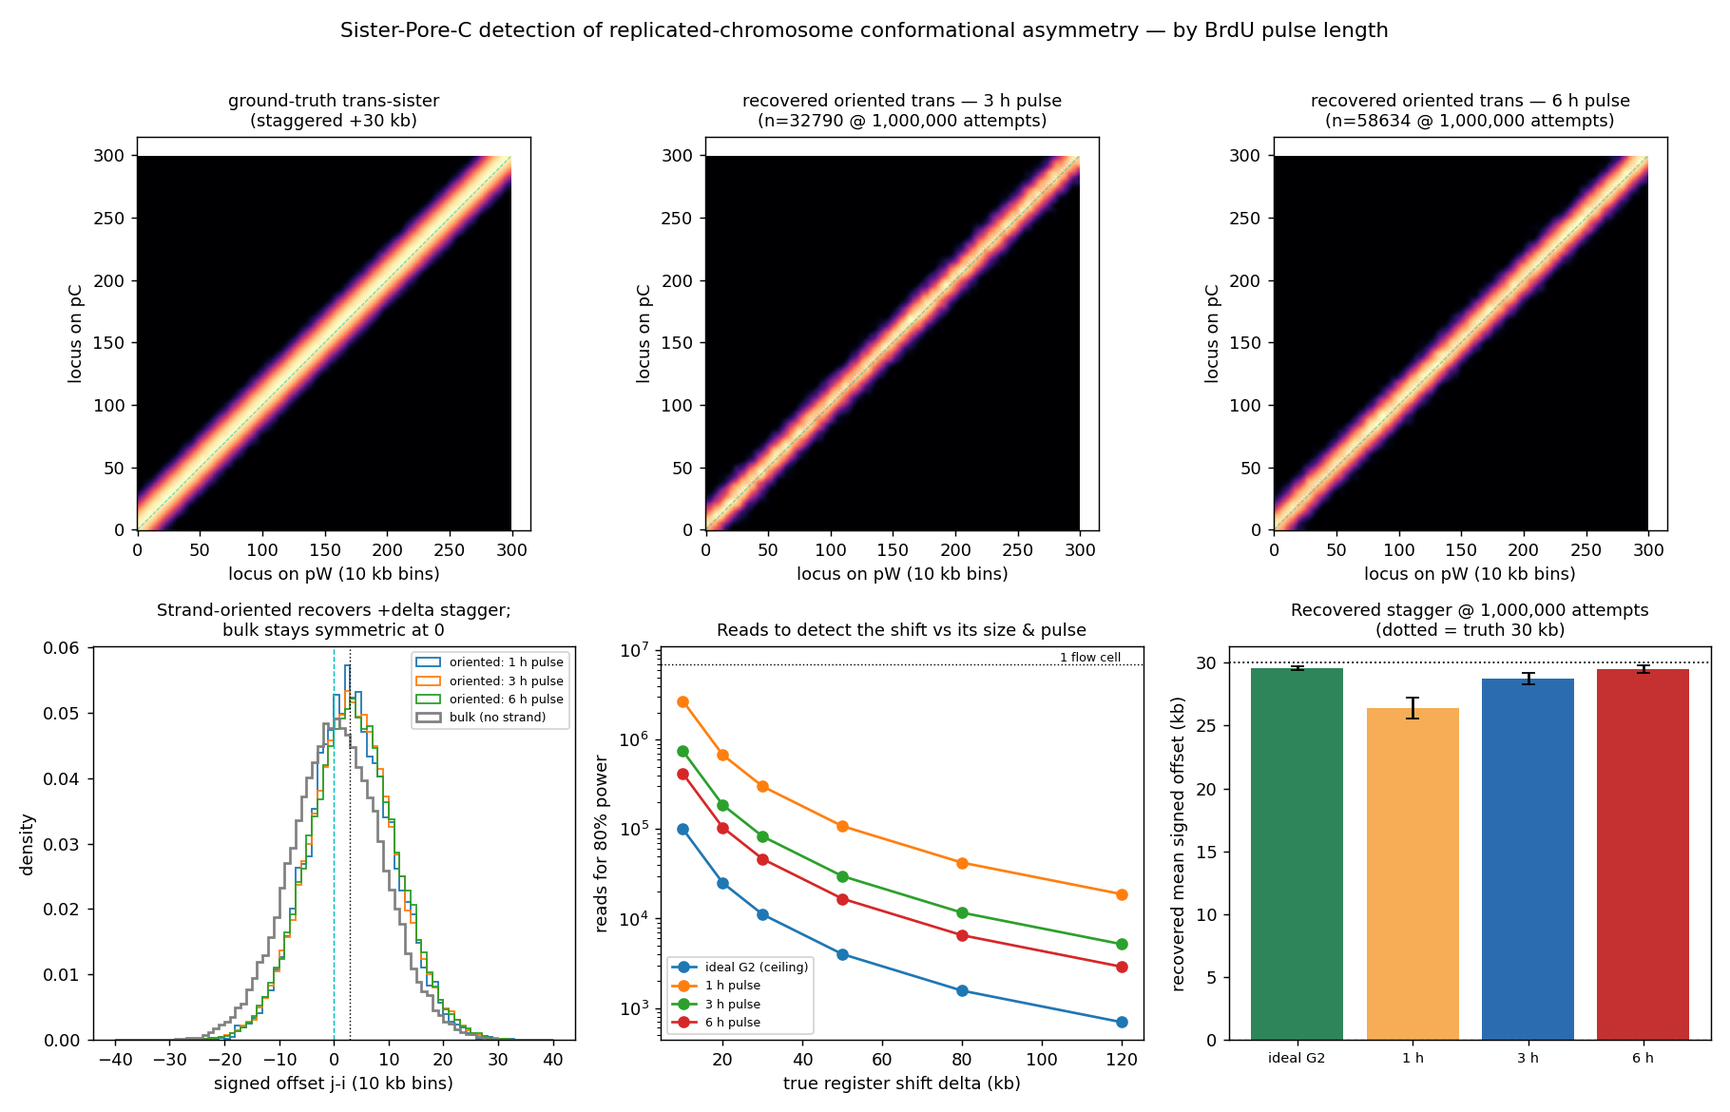
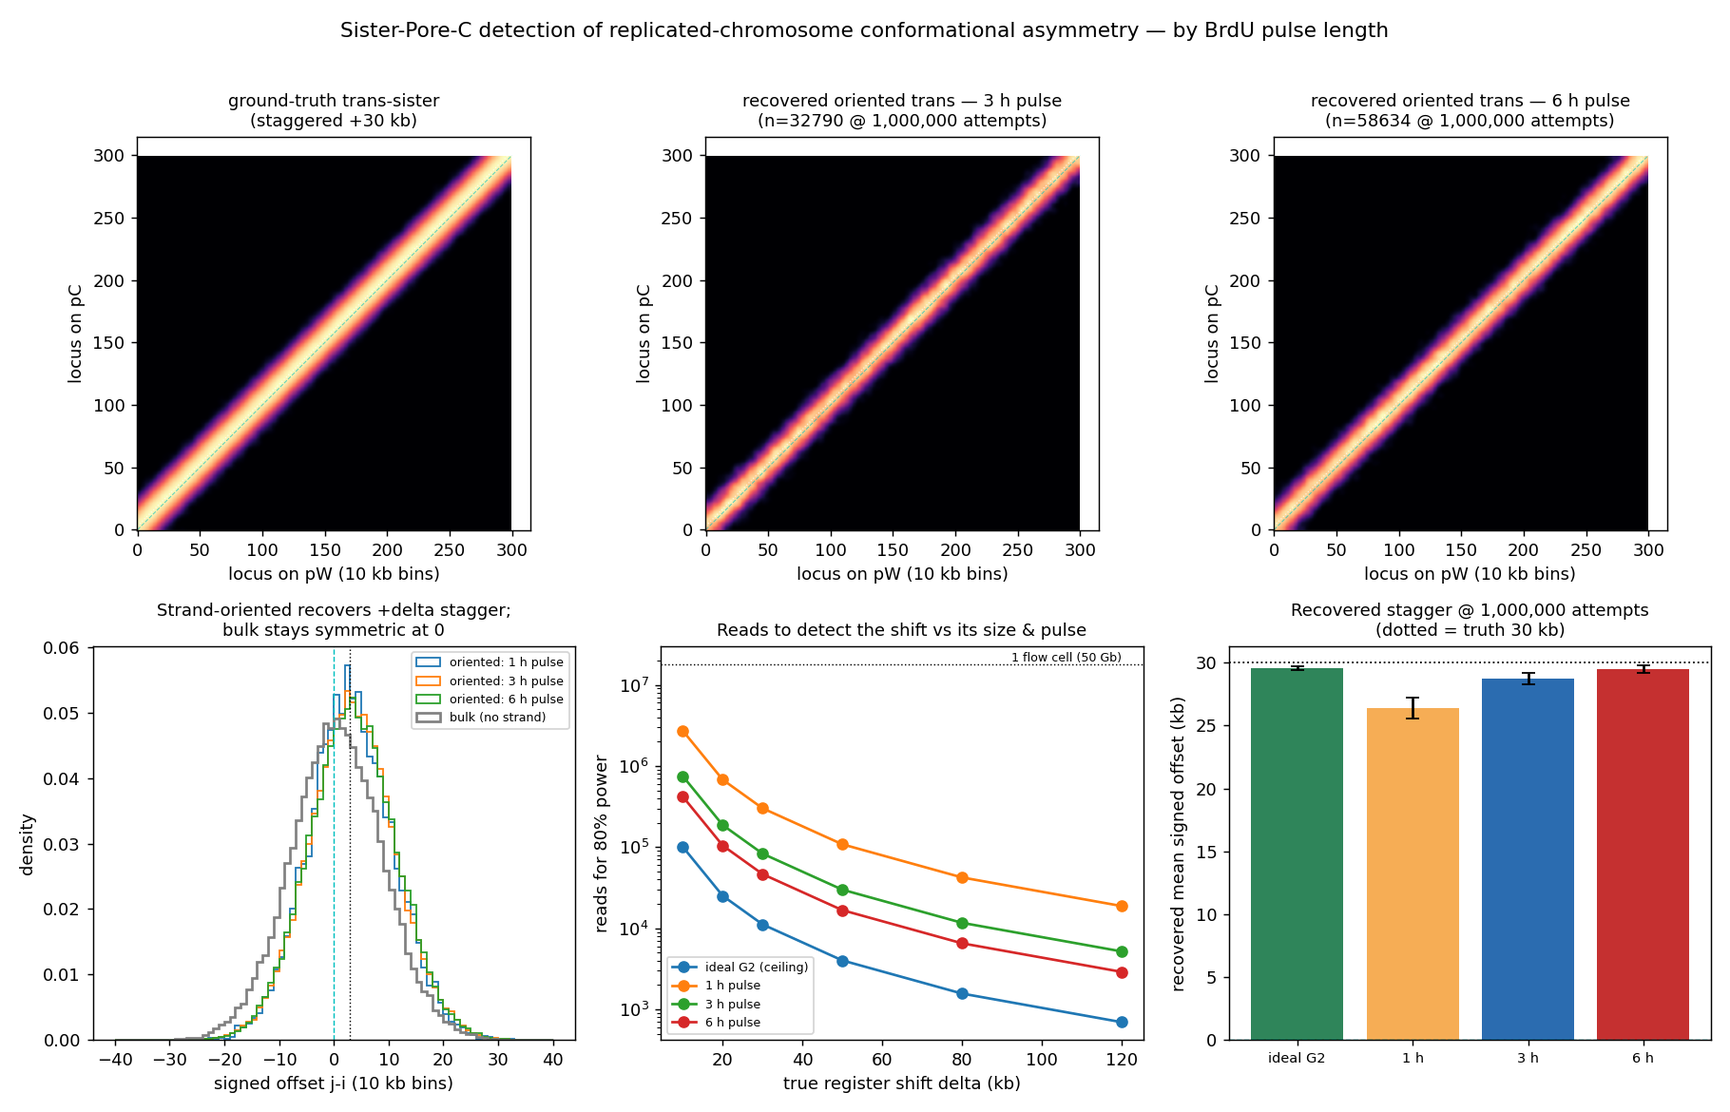
Report: add KEE/chromocenter sister-decomposition section; fix flow-cell scale to 50 Gb
- New pilot_kee_chromocenter.py: decomposes an enriched hub (KEE / chromocenter)
  into cis-sister / trans-sister / inter-homolog; shows inter-homolog fakes sister
  cohesion at the pericentromere and that F1 haplotagging fails there (repeats);
  KEEs are clean in inbred Col-0. Reads = contacts/(p_hub*eps); multi-way ~3.6x.
- Report: add Section 6 (KEE/chromocenter) + Fig 6; correct flow-cell conversion
  to ~50 Gb (~18M reads, ~370x depth on the 135 Mb genome) throughout.

Changed region(s): [[0.3385, 0.6154, 0.6769, 0.8923], [0.5846, 0.5846, 0.6462, 0.6154], [0.5538, 0.8923, 0.6154, 0.9231]]

diff --git a/spcsim/report/index.html b/spcsim/report/index.html
@@ -100,26 +100,56 @@
 <h2>5 · Detection by BrdU pulse length</h2>
 <p>The register shift is a <b>1-D statistic</b> (mean signed offset), not a 2-D map — so it needs only <b>~56 oriented trans-sister contacts</b> for 80% power (assuming δ = 30 kb, spread σ = 80 kb). Longer BrdU pulses label more cells and cut the read requirement:</p>
 <table>
-  <thead><tr><th>BrdU pulse</th><th>oriented trans / read</th><th>reads for 80% power</th><th>flow cells (7 M)</th></tr></thead>
+  <thead><tr><th>BrdU pulse</th><th>oriented trans / read</th><th>reads for 80% power</th><th>flow cells (50 Gb)</th></tr></thead>
   <tbody>
-  <tr><td>ideal G2 (ceiling)</td><td>5.0e-3</td><td>11,000</td><td>0.002</td></tr>
-  <tr><td>1 h pulse</td><td>1.9e-4</td><td>301,000</td><td>0.043</td></tr>
-  <tr><td>3 h pulse</td><td>6.7e-4</td><td class="best">83,000</td><td class="best">0.012</td></tr>
-  <tr><td>6 h pulse</td><td>1.2e-3</td><td>46,000</td><td>0.007</td></tr>
+  <tr><td>ideal G2 (ceiling)</td><td>5.0e-3</td><td>11,000</td><td>0.001</td></tr>
+  <tr><td>1 h pulse</td><td>1.9e-4</td><td>301,000</td><td>0.017</td></tr>
+  <tr><td>3 h pulse</td><td>6.7e-4</td><td class="best">83,000</td><td class="best">0.005</td></tr>
+  <tr><td>6 h pulse</td><td>1.2e-3</td><td>46,000</td><td>0.003</td></tr>
   </tbody>
 </table>
+<div class="callout key"><b>Depth is not the bottleneck in Arabidopsis.</b> A flow cell yields ~50 Gb; the genome is only 135 Mb → <b>~370× coverage per flow cell</b> (~18 M Pore-C reads at ~2.7 kb/read). So detecting the register shift at a 3 h pulse costs ≈0.005 of a flow cell — you are limited by biology and confounds, not sequencing.</div>
 <figure>
   <img src="contactmap_sister.png" alt="sister-resolved contact maps and reads-to-detect by pulse length">
   <figcaption><b>Fig 5.</b> Top: ground-truth vs strand-oriented recovered trans-sister maps (3 h, 6 h pulse). Bottom-left: strand-oriented offset recovers +δ; bulk is symmetric. Bottom-middle: reads-to-detect vs shift size and pulse. Bottom-right: recovered stagger matches truth at every pulse.</figcaption>
 </figure>
-<div class="callout"><b>Pulse recommendation.</b> 1 h → 3 h is the big win (~6× fewer reads, because a 1 h pulse is shorter than S so co-labelling of both loci is rare). 3 h → 6 h is only ~1.8× more and 6 h starts accruing post-mitotic G1-daughter contamination. <b>3 h is the sweet spot</b> — the whole asymmetry measurement costs ≈0.01 of a PromethION flow cell.</div>
+<div class="callout"><b>Pulse recommendation.</b> 1 h → 3 h is the big win (~6× fewer reads, because a 1 h pulse is shorter than S so co-labelling of both loci is rare). 3 h → 6 h is only ~1.8× more and 6 h starts accruing post-mitotic G1-daughter contamination. <b>3 h is the sweet spot</b> — the whole asymmetry measurement costs ≈0.005 of a flow cell.</div>
 
-<h2>6 · Conclusions</h2>
+<h2>6 · KEE / chromocenter interactions: intra- vs inter-sister</h2>
+<p>Beyond the asymmetry, the more Arabidopsis-native use is to decompose your prominent hubs — the <b>KNOT / KEEs</b> and the <b>pericentromere chromocenter</b> — into cis-sister (within one chromatid), trans-sister (between sisters), and inter-homolog contacts. Is a KEE–KEE (or chromocenter) interaction intra-sister, inter-sister, or both? And is pericentromere clustering driven by <b>sister cohesion</b> or by <b>sister-agnostic bulk aggregation</b>?</p>
+<figure>
+  <img src="pilot_kee_chromocenter.png" alt="KEE/chromocenter sister decomposition, inter-homolog bias, F1 rescue, multi-way cost">
+  <figcaption><b>Fig 6.</b> Left: recovered trans-sister fraction vs truth — KEEs are unbiased in inbred Col-0, but at the pericentromere inter-homolog contacts inflate "bulk" (true 0.15) to ~0.30. Middle: reads to distinguish sister-cohesion from bulk vs how enriched your hub is (p_hub). Right: a 3-way sister-spanning hub costs one extra BrdU coin-flip (~3.6×).</figcaption>
+</figure>
+<table>
+  <thead><tr><th>region</th><th>scenario (true)</th><th>inbred Col-0</th><th>Col×Ler F1</th></tr></thead>
+  <tbody>
+  <tr><td>KEE (arm)</td><td>cohesion (0.50)</td><td>0.50</td><td>0.50</td></tr>
+  <tr><td>KEE (arm)</td><td>bulk (0.15)</td><td class="best">0.17</td><td>0.16</td></tr>
+  <tr><td>pericentromere</td><td>cohesion (0.50)</td><td>0.51</td><td>0.51</td></tr>
+  <tr><td>pericentromere</td><td>bulk (0.15)</td><td>0.30 ⚠</td><td>0.29 ⚠</td></tr>
+  </tbody>
+</table>
+<div class="callout warn"><b>The chromocenter trap.</b> At the pericentromere, inter-homolog contacts (~40%) inflate the inbred trans-sister estimate — <b>bulk clustering (true 0.15) reads as 0.30</b>, which can be mistaken for partial sister cohesion. And <b>F1 barely rescues it</b>: pericentromeric reads can't be haplotagged (low SNP density / repeats → only ~6% of inter-homolog pairs identified). So treat the raw inbred pericentromere trans-fraction with suspicion and subtract an inter-homolog model. <b>KEEs (euchromatic, low inter-homolog) are the clean first target</b> — answerable in inbred Col-0 today.</div>
+<p><b>Reads.</b> Only <b>~30 (KEE) to ~80 (pericentromere)</b> sister-resolved contacts are needed to distinguish cohesion from bulk (≈384 to pin the fraction to ±0.05). Total reads = contacts / (p_hub × ε), with ε ≈ 0.03; plug in your measured hub contact fraction p_hub:</p>
+<table>
+  <thead><tr><th>p_hub (your maps)</th><th>KEE reads</th><th>KEE flow cells</th><th>pericentromere reads</th><th>peri flow cells</th></tr></thead>
+  <tbody>
+  <tr><td>1e-3 (strong hub)</td><td>1.1e6</td><td class="best">0.06</td><td>2.4e6</td><td>0.13</td></tr>
+  <tr><td>1e-4</td><td>1.1e7</td><td>0.6</td><td>2.4e7</td><td>1.3</td></tr>
+  <tr><td>1e-5 (weak)</td><td>1.1e8</td><td>6</td><td>2.4e8</td><td>13</td></tr>
+  </tbody>
+</table>
+<p>So for a strong KEE/chromocenter interaction it's a fraction of a flow cell; read your real <code>p_hub</code> off the existing AlwI/BfaI maps to fix the number. <b>Multi-way</b> (a single molecule touching a hub across both sisters — impossible for Hi-C) costs ~3.6× more.</p>
+
+<h2>7 · Conclusions</h2>
 <ul>
   <li><b>Feasible.</b> Detecting the replicated-chromosome register shift needs tens of thousands of reads even asynchronous — a fraction of one flow cell.</li>
   <li><b>Strand resolution is essential and sufficient.</b> The asymmetry is registered to parental strand, so it survives population averaging once you orient by strand; bulk methods cannot recover it.</li>
   <li><b>Read the signed offset, not a full map.</b> The 1-D collapse is ~10³–10⁴× cheaper than a sister-resolved 2-D contact map.</li>
   <li><b>3 h BrdU pulse, no chase.</b> Best trade of yield vs. G1-daughter / double-labelling confounds.</li>
+  <li><b>KEEs first, chromocenter with care.</b> KEE intra- vs inter-sister engagement is answerable in inbred Col-0 now; the pericentromere sister question needs an inter-homolog correction (F1 alone fails in the repeats).</li>
+  <li><b>Sequencing is not the limit.</b> ~370× depth per flow cell on this 135 Mb genome — the constraints are labelling efficiency, inter-homolog contamination, and repeat mappability.</li>
 </ul>
 
 <div class="callout warn">
@@ -134,7 +164,7 @@
 <footer>
   Generated by the <code>spcsim</code> prototype: <code>quick_mc.py</code> (cell/strand/label engine),
   <code>pilot_chr1_sister.py</code> (Fig 3), <code>contactmap_sister.py</code> (Fig 5),
-  <code>animate_schematics.py</code> (Figs 1,2,4). Reference:
+  <code>pilot_kee_chromocenter.py</code> (Fig 6), <code>animate_schematics.py</code> (Figs 1,2,4). Reference:
   <a href="https://www.biorxiv.org/content/10.1101/2025.07.09.663929v1" target="_blank" rel="noopener">Conformational asymmetry of replicated human chromosomes</a>, Science 2025.
 </footer>
 </div>

diff --git a/spcsim/prototype/pilot_kee_chromocenter.py b/spcsim/prototype/pilot_kee_chromocenter.py
@@ -1,0 +1,195 @@
+"""
+Pilot 3: are KEE / chromocenter interactions intra-sister, inter-sister, or both?
+And can we tell "sister-cohesion-driven" from "homolog/bulk-driven" clustering?
+
+For an enriched hub interaction between two loci A,B we plant a TRUE mixture of contact types:
+  - same-homolog sister contacts, split by 'sister_trans_frac' (trans vs cis-sister)
+  - inter-homolog contacts (the confound: in inbred Col-0 they masquerade 50:50 as cis/trans)
+We then read strand + BrdU (via quick_mc), classify cis/trans, and in F1 mode try to HAPLOTAG each
+monomer (region-dependent success) to identify & remove inter-homolog pairs.
+
+Readouts:
+  1. recovered trans-sister fraction vs truth, inbred vs F1  -> the inter-homolog bias & F1 rescue
+  2. sister-resolution efficiency eps at the hub (async 3 h pulse)
+  3. contacts needed for +/-0.05 CI, and to distinguish cohesion(0.5) vs bulk(0.15) at 80% power
+  4. reads = contacts / (p_hub * eps)   -> plug your MEASURED hub contact fraction p_hub
+  5. multi-way (3-locus) sister-spanning hub: extra label cost
+
+Regions: KEE (arm, low inter-homolog, good haplotag) vs pericentromere/chromocenter
+(high inter-homolog, poor haplotag). Run: python pilot_kee_chromocenter.py [n]
+"""
+import math, random, sys
+import numpy as np
+import quick_mc as q
+
+CHR = 0
+OPP = {'W': 'C', 'C': 'W'}
+REGIONS = {
+    # A,B,C bins on Chr1; inter_homolog_frac; F1 haplotag success (SNP density/mappability)
+    'KEE (arm)':            dict(A=520, B=1040, C=1560, p_hom=0.05, hsucc=0.70),
+    'pericentromere':       dict(A=1450, B=1560, C=1505, p_hom=0.40, hsucc=0.25),
+}
+SCEN = {'sister-cohesion': 0.50, 'bulk/independent': 0.15}   # true trans-sister fraction (same-homolog)
+POP = dict(q.BASE)                                            # async 3 h pulse (HU dropped)
+
+
+def detect_probs(p, n=1_000_000, seed=0):
+    rng = np.random.default_rng(seed)
+    nT = rng.binomial(rng.lognormal(math.log(750), 0.45, n).astype(int) + 50, 0.32)
+    lab = (rng.binomial(rng.binomial(nT, p['s']), p['sens']) + rng.binomial(nT, p['fp'])) >= p['thr']
+    unlab = rng.binomial(nT, p['fp']) >= p['thr']
+    return lab.mean(), unlab.mean()
+
+
+def call_from_lab(lab, p_lab, p_unlab):
+    """strand read + BrdU call given a chromatid's labelled-strand set. returns (ident, called)."""
+    rs = random.choice('WC')
+    called = random.random() < (p_lab if rs in lab else p_unlab)
+    return (rs if called else OPP[rs]), called
+
+
+def simulate(region, genotype, stf, n_reads, p_lab, p_unlab, seed=1):
+    random.seed(seed)
+    A, B, C = region['A'], region['B'], region['C']
+    p_hom, hsucc = region['p_hom'], (region['hsucc'] if genotype == 'F1' else 0.0)
+    kept = trans_calls = 0
+    n3_resolved = 0                                   # fully-labelled 3-way (sister-spanning)
+    for _ in range(n_reads):
+        cell = q.sample_cell(POP)
+        # choose homologs + true type FIRST, then read each locus' state exactly once (state() is stochastic)
+        if random.random() < p_hom:                   # inter-homolog contact (the confound)
+            hA, hB, interhom = 0, 1, True
+        else:                                         # same-homolog sister contact
+            hA = hB = random.randint(0, 1); interhom = False
+            is_trans = random.random() < stf
+        sA = cell.state(CHR, hA, A); sB = cell.state(CHR, hB, B)
+        if not (sA[0] and sB[0]):                     # need two sisters present at both loci
+            continue
+        if interhom:
+            cidA = random.choice(list(sA[1])); cidB = random.choice(list(sB[1]))
+        elif is_trans:
+            cidA, cidB = 'pW', 'pC'
+        else:
+            cidA = cidB = random.choice(('pW', 'pC'))
+        identA, cA = call_from_lab(sA[1][cidA], p_lab, p_unlab)
+        identB, cB = call_from_lab(sB[1][cidB], p_lab, p_unlab)
+        if not (cA and cB):
+            continue                                  # not both BrdU+ -> uninformative
+        if genotype == 'F1':                          # haplotag: identified inter-homolog is removed
+            if (random.random() < hsucc) and (random.random() < hsucc) and (hA != hB):
+                continue
+        kept += 1
+        trans_calls += (identA != identB)
+        if not interhom:                              # opportunistic sister-spanning 3-way at C
+            sC = cell.state(CHR, hA, C)
+            if sC[0]:
+                cidC = 'pC' if cidA == 'pW' else 'pW'
+                if call_from_lab(sC[1][cidC], p_lab, p_unlab)[1]:
+                    n3_resolved += 1
+    return dict(recovered=trans_calls / kept if kept else float('nan'),
+                eps=kept / n_reads, eps3=n3_resolved / n_reads)
+
+
+def contacts_precision(f, halfwidth=0.05, z=1.96):
+    return (z / halfwidth) ** 2 * f * (1 - f)
+def contacts_discriminate(f1, f2, za=1.96, zb=0.84):
+    return (za + zb) ** 2 * (f1 * (1 - f1) + f2 * (1 - f2)) / (f1 - f2) ** 2
+
+
+def main():
+    n = int(sys.argv[1]) if len(sys.argv) > 1 else 150_000
+    p_lab, p_unlab = detect_probs(POP)
+    print(f"P(call|labelled)={p_lab:.3f}  (async 3 h pulse)\n", file=sys.stderr)
+
+    res = {}   # (region, scen, geno) -> dict
+    for region in REGIONS:
+        for scen, stf in SCEN.items():
+            for geno in ('inbred', 'F1'):
+                res[(region, scen, geno)] = simulate(REGIONS[region], geno, stf, n, p_lab, p_unlab)
+
+    print("=== 1. recovered trans-sister fraction vs TRUTH ===")
+    print(f"{'region':16s} {'scenario':18s} {'true':>5s} {'inbred':>8s} {'F1':>7s}")
+    for region in REGIONS:
+        for scen, stf in SCEN.items():
+            ib = res[(region, scen, 'inbred')]['recovered']; f1 = res[(region, scen, 'F1')]['recovered']
+            print(f"{region:16s} {scen:18s} {stf:>5.2f} {ib:>8.2f} {f1:>7.2f}")
+    print("\n  -> inter-homolog inflates the inbred estimate toward 0.5; worst at the pericentromere,")
+    print("     where 'bulk' clustering can FAKE sister cohesion. F1 haplotagging recovers the truth.\n")
+
+    print("=== 2. sister-resolution efficiency eps (informative hub contacts per hub contact) ===")
+    for region in REGIONS:
+        e_ib = res[(region, 'sister-cohesion', 'inbred')]['eps']
+        e_f1 = res[(region, 'sister-cohesion', 'F1')]['eps']
+        print(f"  {region:16s} inbred eps={e_ib:.3f}   F1 eps={e_f1:.3f} (haplotag drops some pairs)")
+
+    print("\n=== 3. contacts needed (robust; independent of contact frequency) ===")
+    for region in REGIONS:
+        for geno in ('inbred', 'F1'):
+            fc = res[(region, 'sister-cohesion', geno)]['recovered']
+            fb = res[(region, 'bulk/independent', geno)]['recovered']
+            n_prec = contacts_precision(fc)
+            n_disc = contacts_discriminate(fc, fb)
+            print(f"  {region:16s} {geno:6s}: +/-0.05 CI -> {n_prec:5.0f} contacts | "
+                  f"cohesion-vs-bulk -> {n_disc:6.0f} contacts")
+
+    print("\n=== 4. reads = contacts / (p_hub * eps).  Plug your MEASURED hub contact fraction p_hub ===")
+    print(f"{'region':16s} {'geno':6s} {'contacts(disc)':>14s} " + " ".join(f"p_hub={p:>7.0e}" for p in (1e-3, 1e-4, 1e-5)))
+    for region in REGIONS:
+        for geno in ('inbred', 'F1'):
+            fc = res[(region, 'sister-cohesion', geno)]['recovered']; fb = res[(region, 'bulk/independent', geno)]['recovered']
+            nd = contacts_discriminate(fc, fb); eps = res[(region, 'sister-cohesion', geno)]['eps']
+            reads = [nd / (ph * eps) for ph in (1e-3, 1e-4, 1e-5)]
+            print(f"  {region:14s} {geno:6s} {nd:>14.0f} " + " ".join(f"{r:>12.1e}" for r in reads))
+
+    print("\n=== 5. multi-way (3-locus sister-spanning) extra cost ===")
+    for region in REGIONS:
+        e2 = res[(region, 'sister-cohesion', 'inbred')]['eps']
+        e3 = res[(region, 'sister-cohesion', 'inbred')]['eps3']
+        print(f"  {region:16s} 2-way eps={e2:.3f}  3-way eps={e3:.4f}  -> {e2/e3 if e3 else float('inf'):.1f}x more reads for a 3-way")
+
+    # ---- figure ----
+    try:
+        import matplotlib; matplotlib.use('Agg'); import matplotlib.pyplot as plt
+        fig, ax = plt.subplots(1, 3, figsize=(15, 4.6))
+        # panel 1: recovered fraction inbred vs F1
+        regs = list(REGIONS); scens = list(SCEN); x = np.arange(len(regs)); w = 0.2
+        colors = {'inbred': '#c53030', 'F1': '#2f855a'}
+        for si, scen in enumerate(scens):
+            for gi, geno in enumerate(('inbred', 'F1')):
+                vals = [res[(r, scen, geno)]['recovered'] for r in regs]
+                ax[0].bar(x + (si*2+gi-1.5)*w, vals, w, color=colors[geno],
+                          alpha=0.6 if scen == 'bulk/independent' else 1.0,
+                          label=f"{geno}, {scen}" )
+        for si, scen in enumerate(scens):
+            ax[0].axhline(SCEN[scen], color='#2b6cb0', ls=':', lw=1)
+            ax[0].text(len(regs)-0.4, SCEN[scen], f'true {SCEN[scen]}', color='#2b6cb0', fontsize=8, va='bottom')
+        ax[0].set_xticks(x); ax[0].set_xticklabels(regs); ax[0].set_ylabel('recovered trans-sister fraction')
+        ax[0].set_title('Inter-homolog bias & F1 rescue'); ax[0].legend(fontsize=7); ax[0].set_ylim(0, 0.6)
+        # panel 2: reads to discriminate vs p_hub
+        ph = np.logspace(-5, -2.5, 30)
+        for region in regs:
+            for geno in ('inbred', 'F1'):
+                fc = res[(region, 'sister-cohesion', geno)]['recovered']; fb = res[(region, 'bulk/independent', geno)]['recovered']
+                nd = contacts_discriminate(fc, fb); eps = res[(region, 'sister-cohesion', geno)]['eps']
+                ax[1].plot(ph, nd / (ph * eps), label=f"{region.split(' ')[0]}, {geno}",
+                           ls='-' if geno == 'F1' else '--')
+        ax[1].set_xscale('log'); ax[1].set_yscale('log'); ax[1].axhline(18e6, color='k', ls=':', lw=0.8)
+        ax[1].text(ph[-1], 18e6, ' 1 flow cell (50 Gb)', fontsize=7, ha='right', va='bottom')
+        ax[1].set_xlabel('measured hub contact fraction p_hub'); ax[1].set_ylabel('reads to distinguish cohesion vs bulk')
+        ax[1].set_title('Reads vs how enriched your hub is'); ax[1].legend(fontsize=7)
+        # panel 3: eps 2-way vs 3-way
+        e2 = [res[(r, 'sister-cohesion', 'inbred')]['eps'] for r in regs]
+        e3 = [res[(r, 'sister-cohesion', 'inbred')]['eps3'] for r in regs]
+        ax[2].bar(x - 0.2, e2, 0.4, color='#2b6cb0', label='2-way (pairwise)')
+        ax[2].bar(x + 0.2, e3, 0.4, color='#bc8cff', label='3-way (sister-spanning)')
+        ax[2].set_xticks(x); ax[2].set_xticklabels(regs); ax[2].set_ylabel('resolution efficiency eps')
+        ax[2].set_title('Multi-way costs one more label'); ax[2].legend(fontsize=8)
+        fig.suptitle('Sister-Pore-C for KEE / chromocenter interactions (Chr1, async 3 h pulse)', fontsize=13)
+        fig.tight_layout(rect=[0, 0, 1, 0.95]); fig.savefig('pilot_kee_chromocenter.png', dpi=130)
+        print('\nwrote pilot_kee_chromocenter.png', file=sys.stderr)
+    except Exception:
+        import traceback; traceback.print_exc()
+
+
+if __name__ == '__main__':
+    main()

diff --git a/spcsim/prototype/contactmap_sister.py b/spcsim/prototype/contactmap_sister.py
@@ -31,6 +31,7 @@ SIGMA = 8                    # trans-contact spread (bins) = 80 kb
 # BrdU pulse sweep (HU dropped). ideal = theoretical ceiling (fully-labelled G2).
 POPS = {'ideal G2 (ceiling)': dict(ideal=True), '1 h pulse': dict(P=1.0),
         '3 h pulse': dict(P=3.0), '6 h pulse': dict(P=6.0)}
+FLOWCELL = 18_000_000     # reads per ~50 Gb flow cell (~2.7 kb/read; Arabidopsis 135 Mb -> ~370x depth)
 MAP_PANELS = ['3 h pulse', '6 h pulse']
 OPP = {'W': 'C', 'C': 'W'}
 
@@ -138,15 +139,15 @@ def main():
     with open('contactmap_sister_readsneeded.csv', 'w', newline='') as f:
         w = csv.writer(f)
         w.writerow(['population', 'oriented_trans_per_read_genome', 'contacts_for_80pct_power',
-                    'reads_for_80pct_power', 'flowcells_at_7M'])
+                    'reads_for_80pct_power', 'flowcells_50Gb'])
         for pop, r in results.items():
             w.writerow([pop, f"{r['y_genome']:.3e}", f"{CONTACTS_80:.0f}",
-                        f"{r['reads_needed']:.3e}", f"{r['reads_needed']/7e6:.3f}"])
+                        f"{r['reads_needed']:.3e}", f"{r['reads_needed']/FLOWCELL:.3f}"])
     print("\n=== reads to DETECT the register shift (mean signed offset != 0, 80% power) ===")
     print(f"delta={DELTA*10} kb, sigma={SIGMA*10} kb  ->  {CONTACTS_80:.0f} oriented trans contacts needed")
-    print(f"{'BrdU pulse':20s} {'oriented trans/read':>19s} {'reads needed':>14s} {'flow cells (7M)':>15s}")
+    print(f"{'BrdU pulse':20s} {'oriented trans/read':>19s} {'reads needed':>14s} {'flow cells(50Gb)':>16s}")
     for pop, r in results.items():
-        print(f"{pop:20s} {r['y_genome']:>19.2e} {r['reads_needed']:>14.2e} {r['reads_needed']/7e6:>15.3f}")
+        print(f"{pop:20s} {r['y_genome']:>19.2e} {r['reads_needed']:>14.2e} {r['reads_needed']/FLOWCELL:>16.3f}")
 
     try:
         import matplotlib; matplotlib.use('Agg'); import matplotlib.pyplot as plt
@@ -181,7 +182,7 @@ def main():
             nr = [(1.96 + 0.84) ** 2 * (SIGMA / d) ** 2 / yg for d in deltas]
             a.plot(deltas * 10, nr, 'o-', label=pop)
         a.set_yscale('log'); a.set_xlabel('true register shift delta (kb)'); a.set_ylabel('reads for 80% power')
-        a.axhline(7e6, color='k', ls=':', lw=0.8); a.text(deltas[-1]*10, 7e6, ' 1 flow cell', fontsize=7, va='bottom', ha='right')
+        a.axhline(FLOWCELL, color='k', ls=':', lw=0.8); a.text(deltas[-1]*10, FLOWCELL, ' 1 flow cell (50 Gb)', fontsize=7, va='bottom', ha='right')
         a.set_title('Reads to detect the shift vs its size & pulse', fontsize=10); a.legend(fontsize=7)
 
         a = ax[1, 2]
